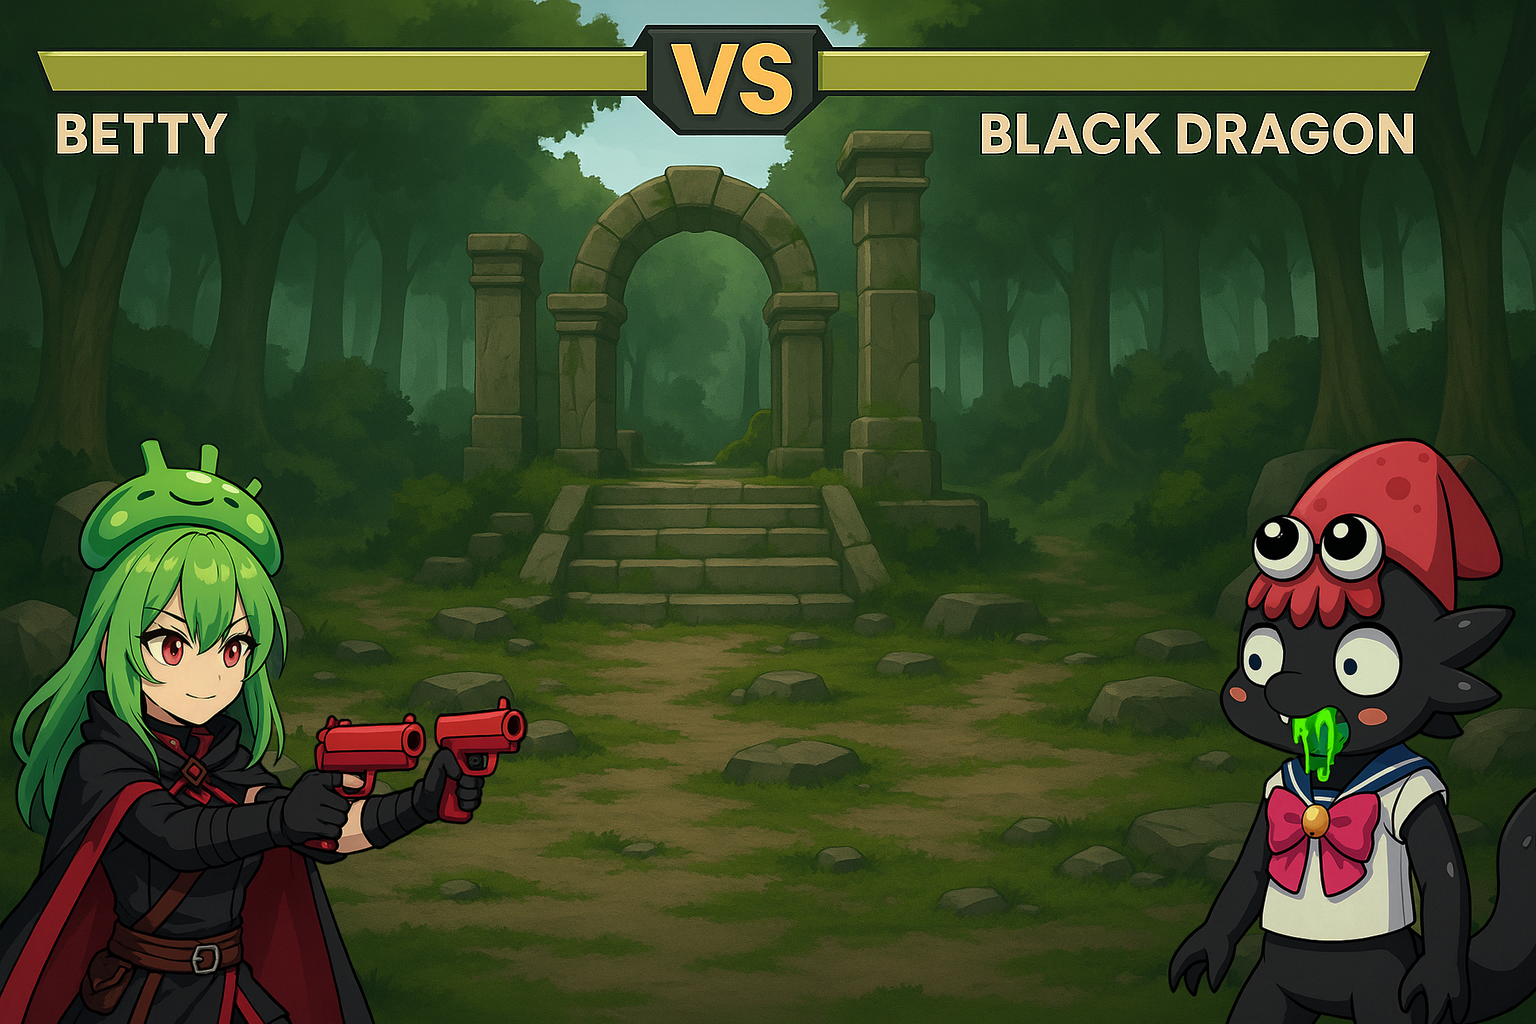
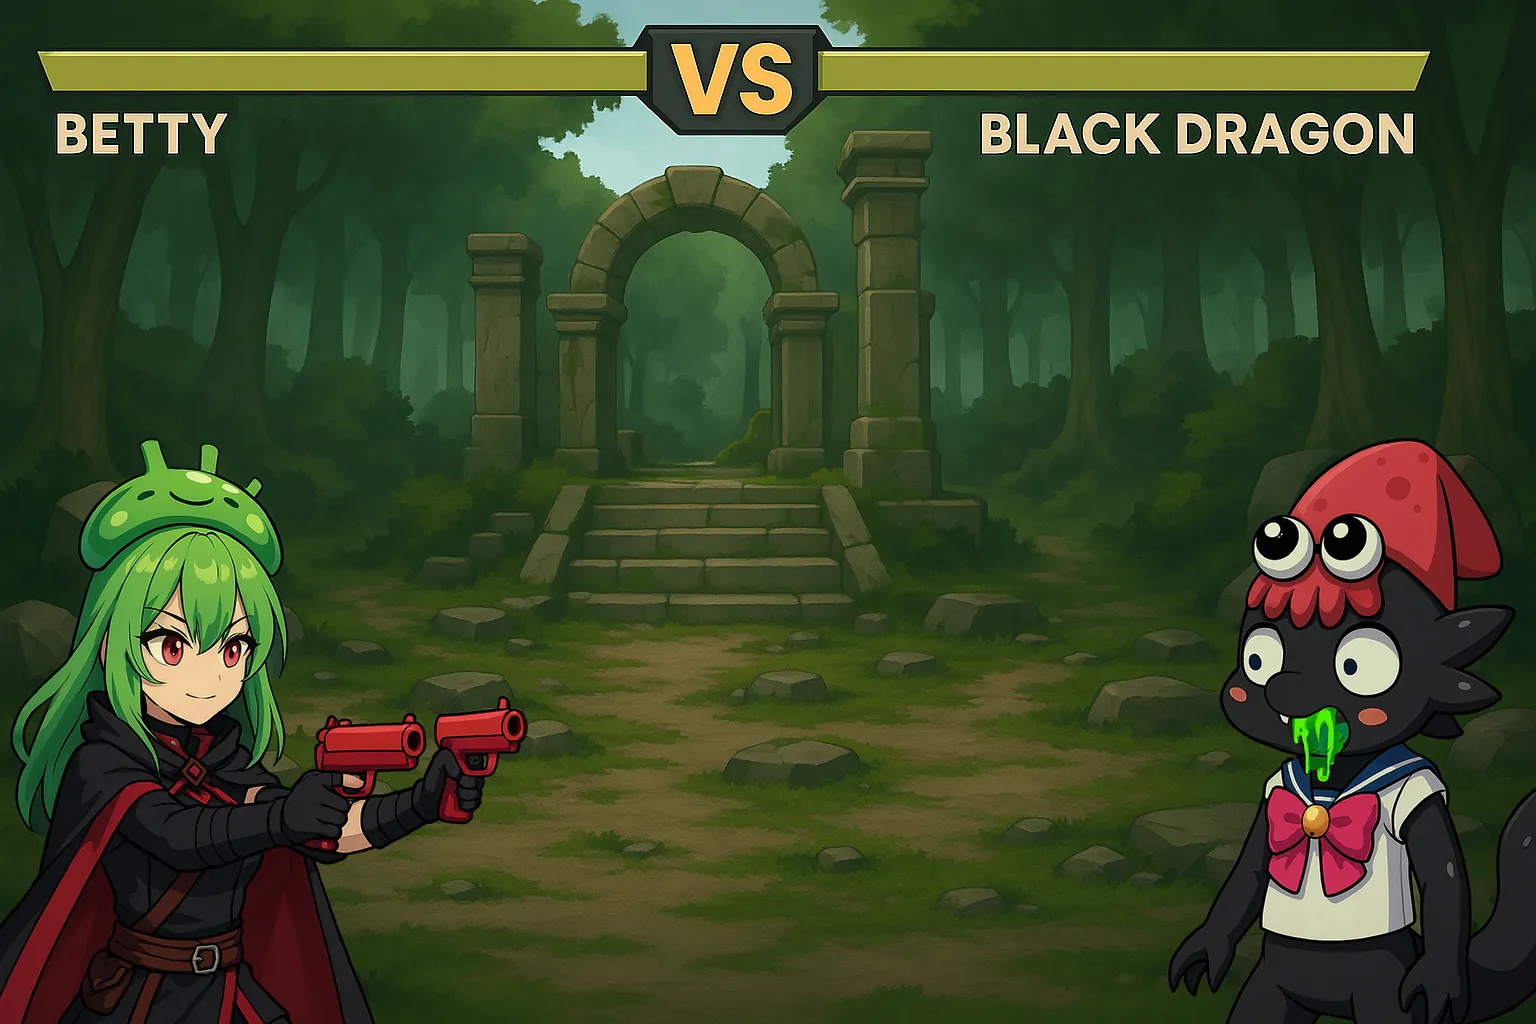
Optimize background images

diff --git a/src/components/layout.rs b/src/components/layout.rs
@@ -38,6 +38,9 @@ fn left_edge_threshold() -> f64 {
 }
 
 fn get_random_background() -> String {
+    if window().inner_width().unwrap().as_f64().unwrap() < 960.0 {
+        return "".to_string();
+    }
     let mut rng = OsRng;
     let random_num = rng.gen_range(1..=12);
     format!("/bg{}.webp", random_num)
